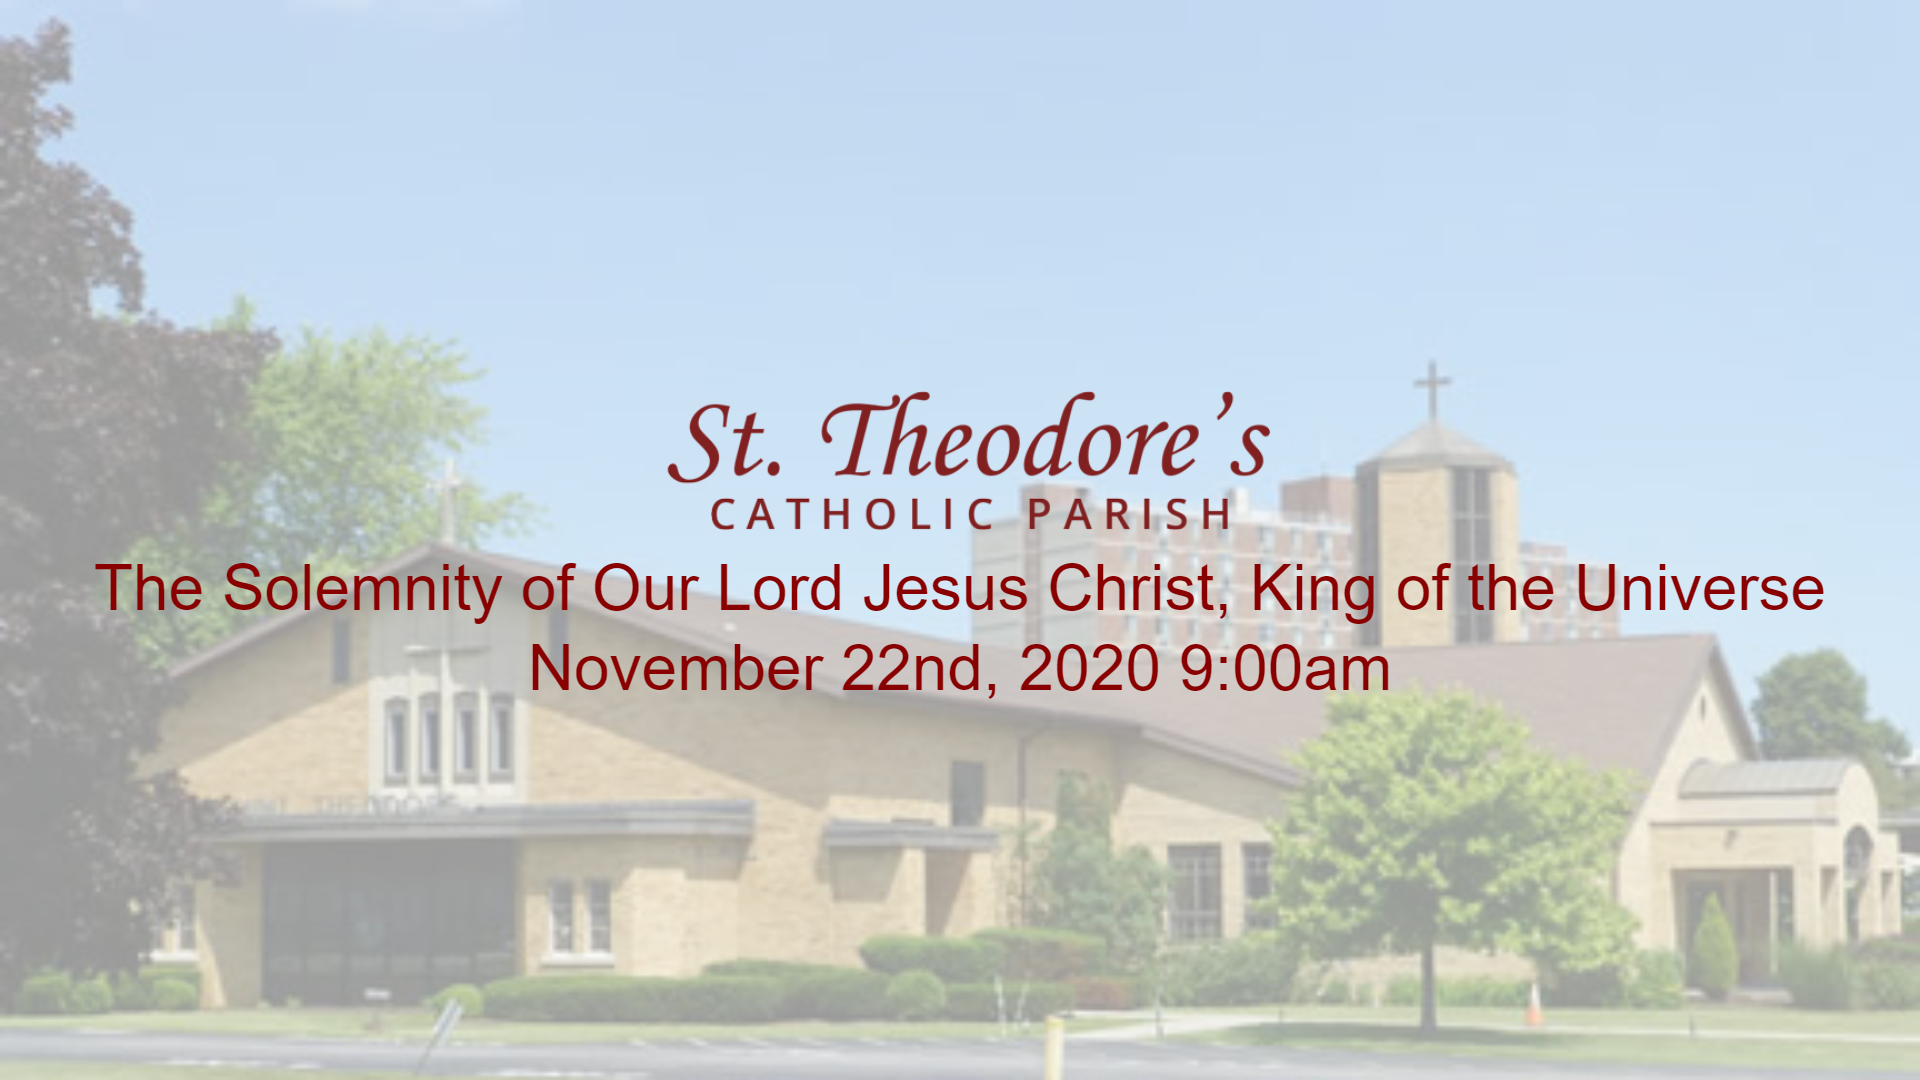
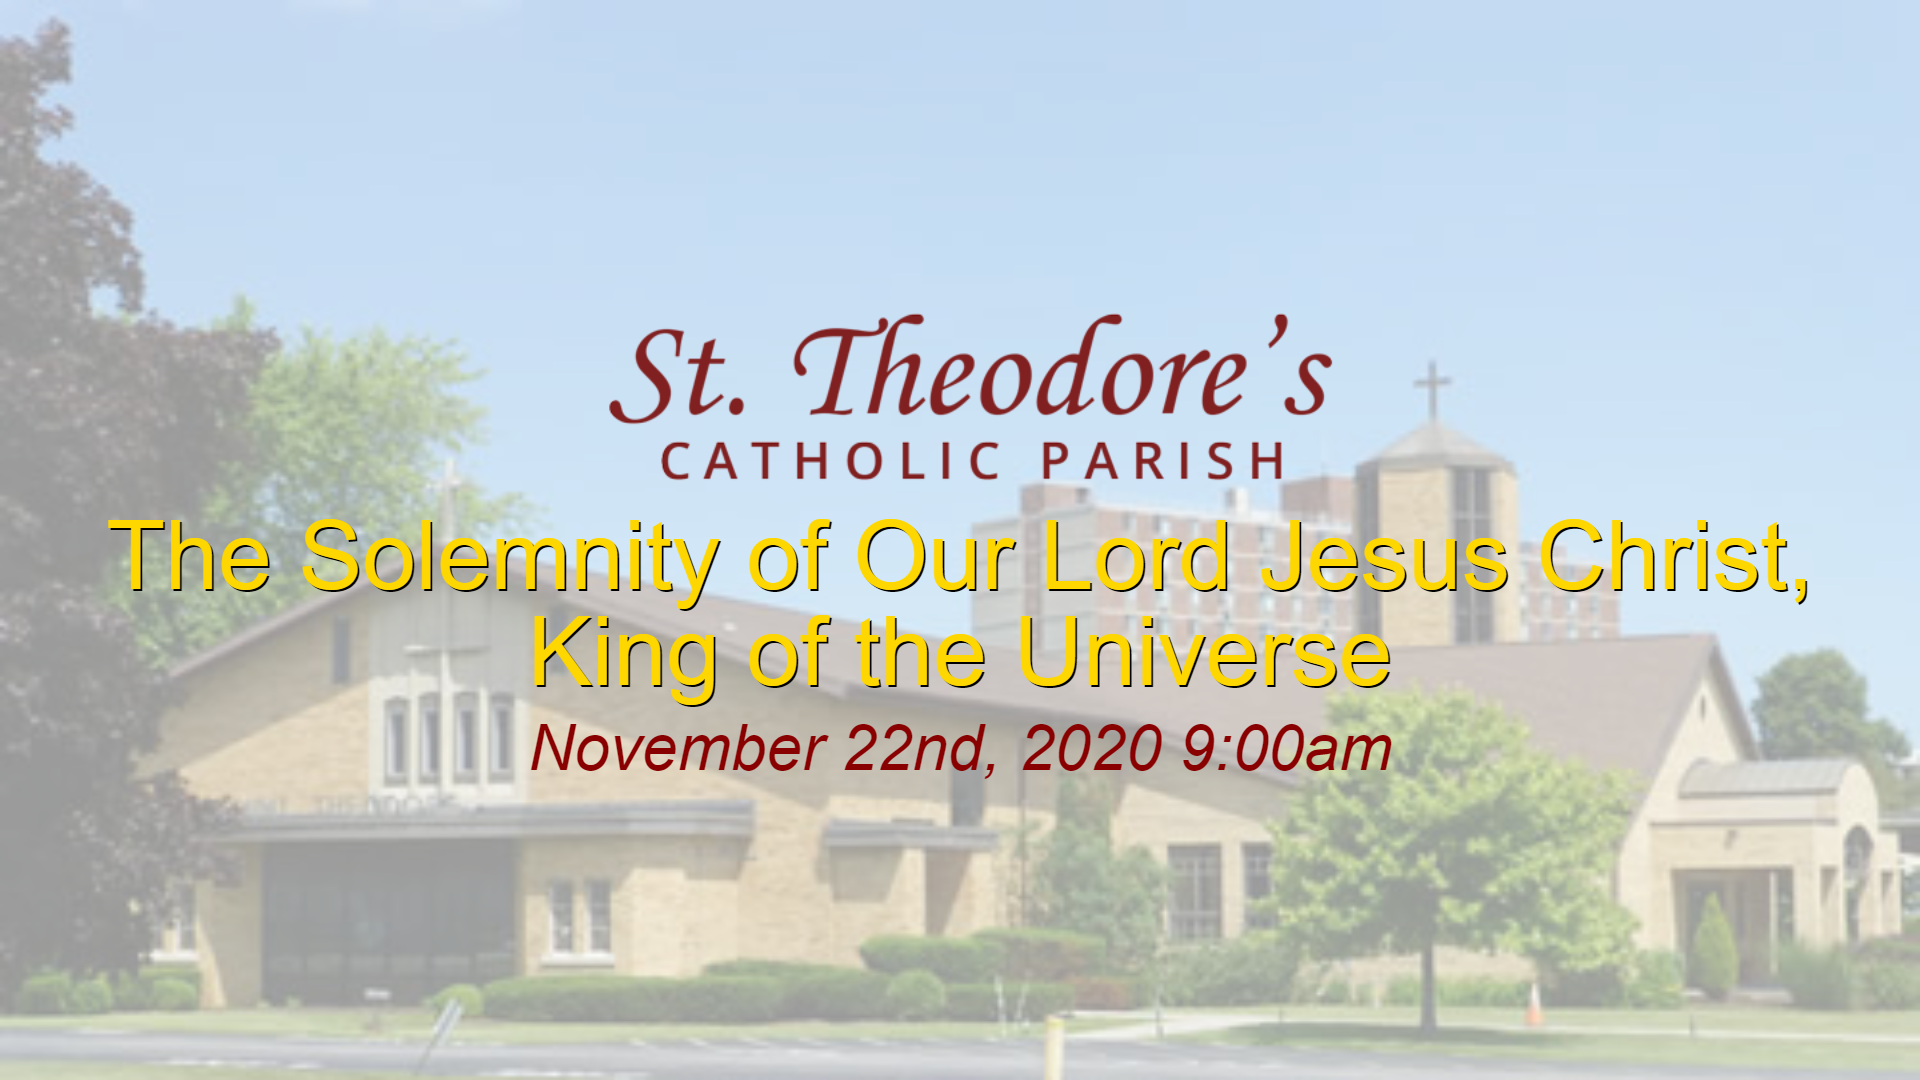
Added title image for 11/29/2020 mass. Fixed formatting of first reading of 11/22/2020 mass.

Changed region(s): [[0.0312, 0.275, 0.9688, 0.7333]]

diff --git a/html/2020-11-29/styles.scss b/html/2020-11-29/styles.scss
@@ -3,12 +3,20 @@
     --clr-normal-400: black;
 
     // COLORS
-    // NORMAL
-    // --clr-primary-400: #aa0000;
-    // --clr-primary-500: #880000;
-    // --clr-primary-600: #550000;
-    // --clr-accent-400: #55aa7f;
-    // --clr-bg: linear-gradient(150deg, #fffadf, #fff4c4);
+    // STANDARD
+    --clr-primary-400: #aa0000;
+    --clr-primary-500: #880000;
+    --clr-primary-600: #550000;
+    --clr-accent-400: #55aa7f;
+    --clr-bg: linear-gradient(150deg, #fffadf, #fff4c4);
+    --clr-accent-400-text-shadow: #333;
+    --clr-accent-500-text-shadow: black;
+
+    // FEAST (GOLD AND WHITE)
+    // --clr-accent-400: rgb(233, 202, 25);
+    // --clr-accent-400-text-shadow: #333;
+    // --clr-accent-500: rgb(255, 215, 0);
+    // --clr-bg: linear-gradient(150deg, #ffd #fff, #ffc);
 
     // ADVENT
     --clr-primary-400: #aa008e;
@@ -214,6 +222,7 @@ h3 {
 
 .verse {
     color: var(--clr-accent-400);
+    text-shadow: 1px 1px var(--clr-primary-600);
 }
 
 .body {

diff --git a/html/2020-11-22/styles.scss b/html/2020-11-22/styles.scss
@@ -1,17 +1,24 @@
 :root {
     --clr-normal-100: white;
     --clr-normal-400: black;
+
+    // COLORS
+    // STANDARD
     --clr-primary-400: #aa0000;
     --clr-primary-500: #880000;
     --clr-primary-600: #550000;
+    --clr-accent-400: #55aa7f;
+    --clr-bg: linear-gradient(150deg, #fffadf, #fff4c4);
+    --clr-accent-400-text-shadow: #333;
+    --clr-accent-500-text-shadow: black;
+
+    // FEAST (GOLD AND WHITE)
     --clr-accent-400: rgb(233, 202, 25);
     --clr-accent-400-text-shadow: #333;
-    // --clr-accent-500: rebeccapurple;
     --clr-accent-500: rgb(255, 215, 0);
-    --clr-accent-500-text-shadow: black;
-    --clr-bg: linear-gradient(150deg, #fffadf, #fff4c4);
+    --clr-bg: linear-gradient(150deg, #ffe, #fff, #ffe);
 
-    // advent
+    // ADVENT
     // --clr-primary-400: #aa008e;
     // --clr-primary-500: #610088;
     // --clr-primary-600: #550051;

diff --git a/html/2020-11-22/styles.css b/html/2020-11-22/styles.css
@@ -4,11 +4,14 @@
   --clr-primary-400: #aa0000;
   --clr-primary-500: #880000;
   --clr-primary-600: #550000;
+  --clr-accent-400: #55aa7f;
+  --clr-bg: linear-gradient(150deg, #fffadf, #fff4c4);
+  --clr-accent-400-text-shadow: #333;
+  --clr-accent-500-text-shadow: black;
   --clr-accent-400: rgb(233, 202, 25);
   --clr-accent-400-text-shadow: #333;
   --clr-accent-500: rgb(255, 215, 0);
-  --clr-accent-500-text-shadow: black;
-  --clr-bg: linear-gradient(150deg, #fffadf, #fff4c4);
+  --clr-bg: linear-gradient(150deg, #ffe, #fff, #ffe);
   --fs-400: 1rem;
   --fs-500: 1.4rem;
   --fs-600: 2.6rem;

diff --git a/html/2020-11-29/styles.css b/html/2020-11-29/styles.css
@@ -1,6 +1,13 @@
 :root {
   --clr-normal-100: white;
   --clr-normal-400: black;
+  --clr-primary-400: #aa0000;
+  --clr-primary-500: #880000;
+  --clr-primary-600: #550000;
+  --clr-accent-400: #55aa7f;
+  --clr-bg: linear-gradient(150deg, #fffadf, #fff4c4);
+  --clr-accent-400-text-shadow: #333;
+  --clr-accent-500-text-shadow: black;
   --clr-primary-400: #aa008e;
   --clr-primary-500: #610088;
   --clr-primary-600: #550051;
@@ -220,6 +227,7 @@ h3 {
 
 .verse {
   color: var(--clr-accent-400);
+  text-shadow: 1px 1px var(--clr-primary-600);
 }
 
 .body {

diff --git a/html/2020-11-22/reading-1.2.html b/html/2020-11-22/reading-1.2.html
@@ -12,7 +12,9 @@
     <div class="content bordered-background">
         <div class="body left">
             <div class="prayer">
-                <p>As for you, my sheep, says the Lord GOD,
+                <p>but the sleek and the strong I will destroy,
+                    shepherding them rightly.
+                    As for you, my sheep, says the Lord GOD,
                     I will judge between one sheep and another,
                     between rams and goats.</p>
                 <p class="prayer__conclusion">The Word of the Lord</p>

diff --git a/html/2020-11-22/reading-1.1.html b/html/2020-11-22/reading-1.1.html
@@ -28,9 +28,7 @@
                     The lost I will seek out,
                     the strayed I will bring back,
                     the injured I will bind up,
-                    the sick I will heal,
-                    but the sleek and the strong I will destroy,
-                    shepherding them rightly.</p>
+                    the sick I will heal,</p>
             </div>
         </div>
     </div>
